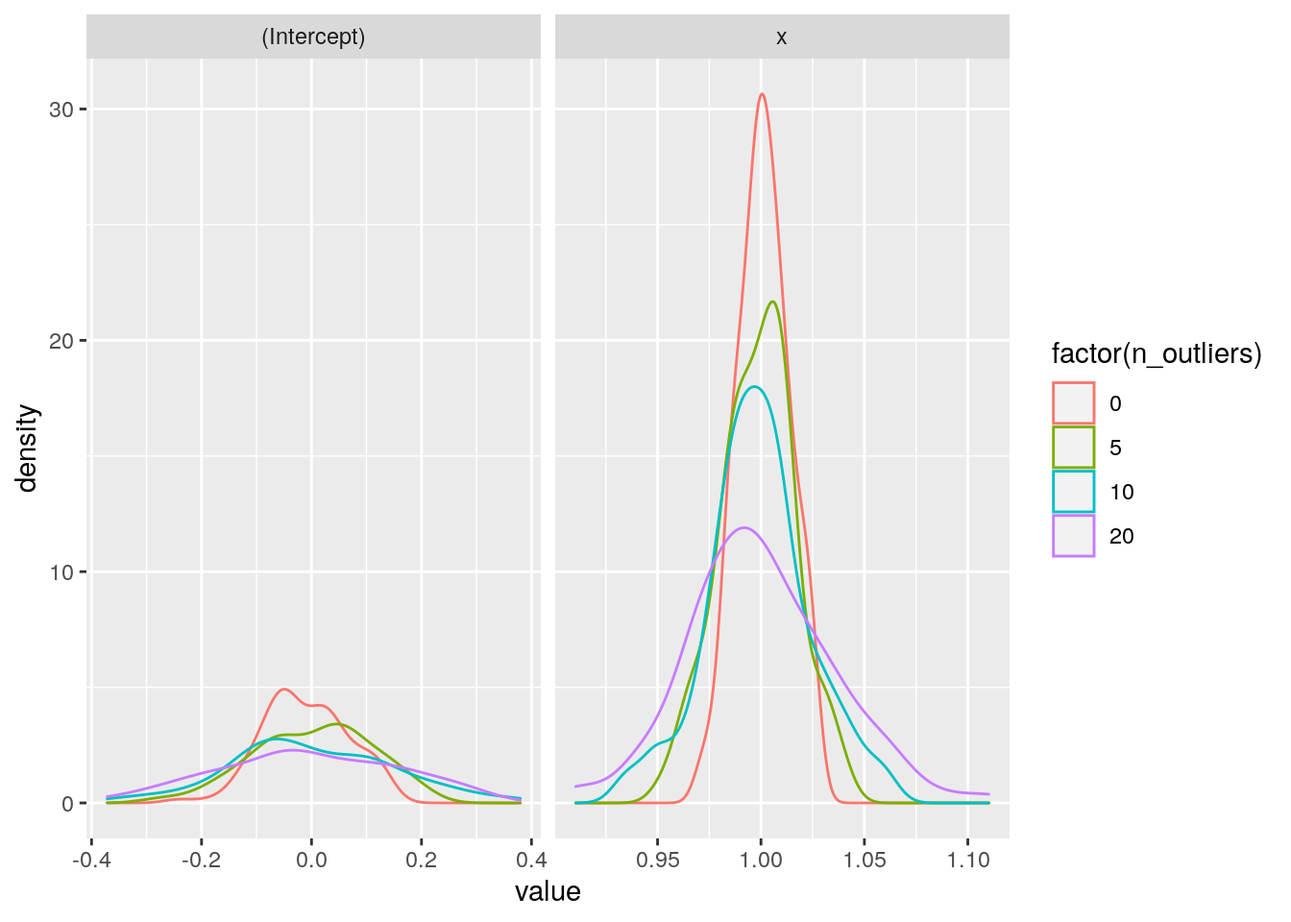
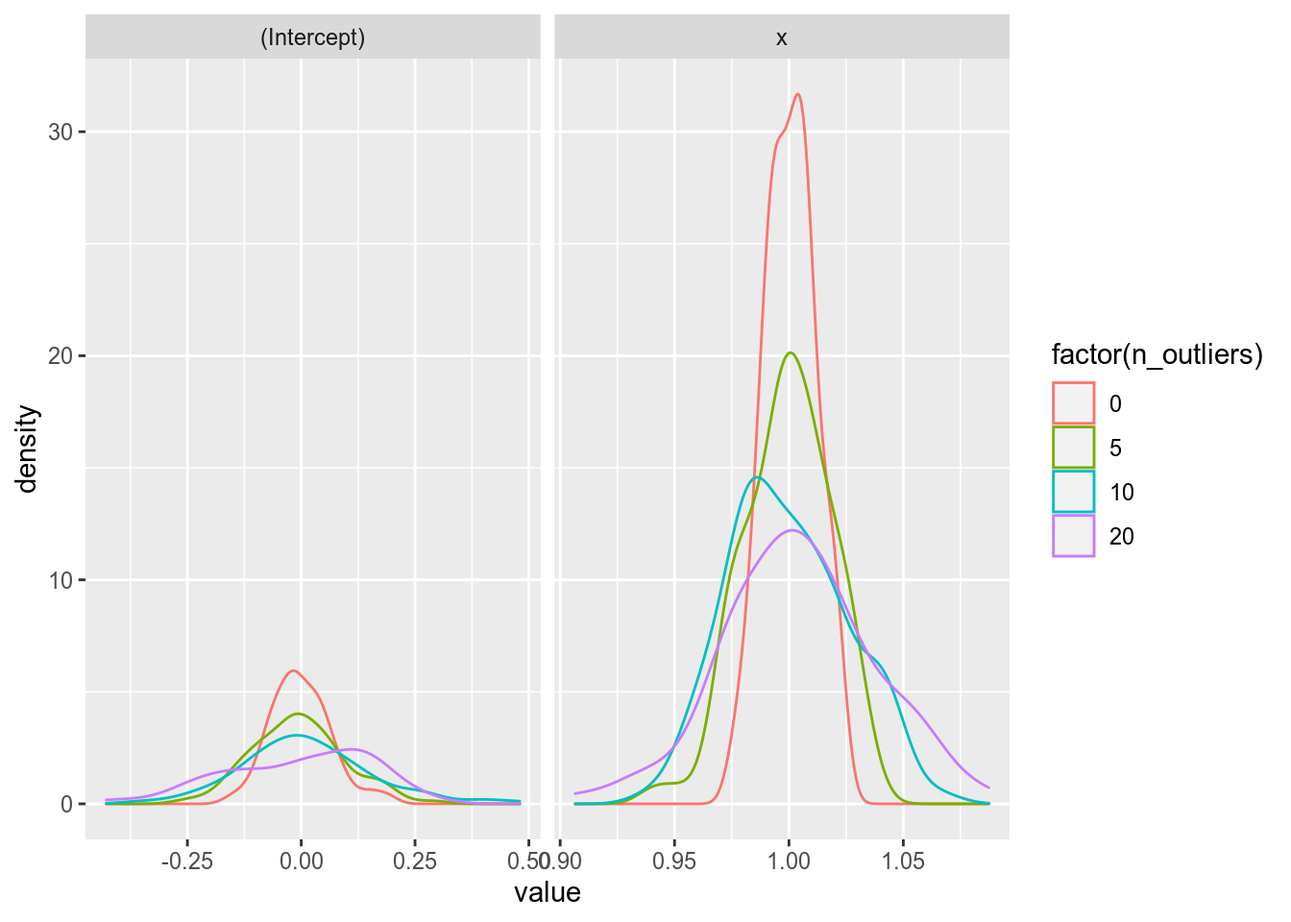
purrr addins

diff --git a/docs/lists-nested-lists-and-functional-programming.html b/docs/lists-nested-lists-and-functional-programming.html
@@ -448,13 +448,22 @@ code span.wa { color: #60a0b0; font-weight: bold; font-style: italic; } /* Warni
 <li class="chapter" data-level="11.4" data-path="animated-and-interactive-graphics.html"><a href="animated-and-interactive-graphics.html#general-references"><i class="fa fa-check"></i><b>11.4</b> General References</a>
 <ul>
 <li class="chapter" data-level="11.4.1" data-path="animated-and-interactive-graphics.html"><a href="animated-and-interactive-graphics.html#other-interactive-tools"><i class="fa fa-check"></i><b>11.4.1</b> Other interactive tools</a></li>
+<li class="chapter" data-level="11.4.2" data-path="debugging.html"><a href="debugging.html#debugging"><i class="fa fa-check"></i><b>11.4.2</b> Debugging</a></li>
 </ul></li>
 </ul></li>
 <li class="chapter" data-level="12" data-path="lists-nested-lists-and-functional-programming.html"><a href="lists-nested-lists-and-functional-programming.html"><i class="fa fa-check"></i><b>12</b> Lists, Nested Lists, and Functional Programming</a>
 <ul>
 <li class="chapter" data-level="12.1" data-path="lists-nested-lists-and-functional-programming.html"><a href="lists-nested-lists-and-functional-programming.html#review-lists-and-vectors"><i class="fa fa-check"></i><b>12.1</b> Review: Lists and Vectors</a></li>
 <li class="chapter" data-level="12.2" data-path="lists-nested-lists-and-functional-programming.html"><a href="lists-nested-lists-and-functional-programming.html#introduction-to-map"><i class="fa fa-check"></i><b>12.2</b> Introduction to <code>map</code></a></li>
-<li class="chapter" data-level="12.3" data-path="lists-nested-lists-and-functional-programming.html"><a href="lists-nested-lists-and-functional-programming.html#creating-list-columns"><i class="fa fa-check"></i><b>12.3</b> Creating List-columns</a></li>
+<li class="chapter" data-level="12.3" data-path="lists-nested-lists-and-functional-programming.html"><a href="lists-nested-lists-and-functional-programming.html#creating-and-using-list-columns"><i class="fa fa-check"></i><b>12.3</b> Creating (and Using) List-columns</a></li>
+<li class="chapter" data-level="12.4" data-path="lists-nested-lists-and-functional-programming.html"><a href="lists-nested-lists-and-functional-programming.html#ways-to-use-map"><i class="fa fa-check"></i><b>12.4</b> Ways to use <code>map</code></a>
+<ul>
+<li class="chapter" data-level="" data-path="intro-prog.html"><a href="intro-prog.html#try-it-out"><i class="fa fa-check"></i>Try it out</a></li>
+</ul></li>
+<li class="chapter" data-level="12.5" data-path="lists-nested-lists-and-functional-programming.html"><a href="lists-nested-lists-and-functional-programming.html#beyond-map-functions-with-multiple-inputs"><i class="fa fa-check"></i><b>12.5</b> Beyond <code>map</code>: Functions with multiple inputs</a>
+<ul>
+<li class="chapter" data-level="" data-path="intro-prog.html"><a href="intro-prog.html#try-it-out-1"><i class="fa fa-check"></i>Try it out</a></li>
+</ul></li>
 <li class="chapter" data-level="" data-path="tools.html"><a href="tools.html#references"><i class="fa fa-check"></i>References</a></li>
 </ul></li>
 <li class="chapter" data-level="13" data-path="high-performance-computing.html"><a href="high-performance-computing.html"><i class="fa fa-check"></i><b>13</b> High Performance Computing</a>
@@ -572,8 +581,8 @@ code span.wa { color: #60a0b0; font-weight: bold; font-style: italic; } /* Warni
 </div>
 <p>Operations in R are <strong>vectorized</strong> - that is, by default, they operate on vectors. This is primarily a feature that applies to atomic vectors (and we don’t even think about it):</p>
 <div class="sourceCode" id="cb33"><pre class="sourceCode r"><code class="sourceCode r"><span id="cb33-1"><a href="lists-nested-lists-and-functional-programming.html#cb33-1"></a>(<span class="kw">rnorm</span>(<span class="dv">10</span>) <span class="op">+</span><span class="st"> </span><span class="kw">rnorm</span>(<span class="dv">10</span>, <span class="dt">mean =</span> <span class="dv">3</span>))</span></code></pre></div>
-<pre><code>##  [1] 2.5901192 5.6280698 3.8117427 2.9286354 0.7314445 1.8338168 3.1511402
-##  [8] 1.2429209 4.1388425 2.2162552</code></pre>
+<pre><code>##  [1] 2.962322 2.304403 3.469598 1.786258 2.787927 5.174108 3.377978 5.515752
+##  [9] 3.001097 0.844748</code></pre>
 <p>We didn’t have to use a for loop to add these two vectors with 10 entries each together. In python (and SAS, and other languages), this might instead look like:</p>
 <div class="sourceCode" id="cb35"><pre class="sourceCode r"><code class="sourceCode r"><span id="cb35-1"><a href="lists-nested-lists-and-functional-programming.html#cb35-1"></a>a &lt;-<span class="st"> </span><span class="kw">rnorm</span>(<span class="dv">10</span>)</span>
 <span id="cb35-2"><a href="lists-nested-lists-and-functional-programming.html#cb35-2"></a>b &lt;-<span class="st"> </span><span class="kw">rnorm</span>(<span class="dv">10</span>, <span class="dt">mean =</span> <span class="dv">3</span>)</span>
@@ -582,8 +591,8 @@ code span.wa { color: #60a0b0; font-weight: bold; font-style: italic; } /* Warni
 <span id="cb35-5"><a href="lists-nested-lists-and-functional-programming.html#cb35-5"></a>  result[i] &lt;-<span class="st"> </span>a[i] <span class="op">+</span><span class="st"> </span>b[i]</span>
 <span id="cb35-6"><a href="lists-nested-lists-and-functional-programming.html#cb35-6"></a>}</span>
 <span id="cb35-7"><a href="lists-nested-lists-and-functional-programming.html#cb35-7"></a>result</span></code></pre></div>
-<pre><code>##  [1] 2.670812 1.864085 3.418096 3.077160 1.961165 2.360801 2.158312 2.616665
-##  [9] 3.034091 2.552671</code></pre>
+<pre><code>##  [1] 1.852131 4.881300 3.238447 3.638142 2.866209 4.318061 3.268676 3.033669
+##  [9] 4.341455 5.716266</code></pre>
 <p>That is, we would apply or map the + function to each entry of a and b. For atomic vectors, it’s easy to do this by default; with a list, however, we need to be a bit more explicit (because everything that’s passed into the function may not be the same type).</p>
 <p>This logic is the basis behind the purrr package (and similar base functions <code>apply</code>, <code>lapply</code>, <code>sapply</code>, <code>tapply</code>, and <code>mapply</code> - I find the purrr package easier to work with, but you may use the base package versions if you want, and you can find a <a href="https://jennybc.github.io/purrr-tutorial/bk01_base-functions.html">side-by-side comparison in the purrr tutorial</a>).</p>
 </div>
@@ -1572,8 +1581,8 @@ code span.wa { color: #60a0b0; font-weight: bold; font-style: italic; } /* Warni
 ## 10 Davos Seaworth     Male   &quot;In 260 AC or before, at King&#39;s Landing&quot;
 ## # … with 20 more rows</code></pre>
 </div>
-<div id="creating-list-columns" class="section level2" number="12.3">
-<h2><span class="header-section-number">12.3</span> Creating List-columns</h2>
+<div id="creating-and-using-list-columns" class="section level2" number="12.3">
+<h2><span class="header-section-number">12.3</span> Creating (and Using) List-columns</h2>
 <p>Data structures in R are typically list-based in one way or another. Sometimes, more complicated data structures are actually lists of lists, or tibbles with a list-column, or other variations on “list within a ____”. In combination with <code>purrr</code>, this is an <em>incredibly</em> powerful setup that can make working with simulations and data very easy.</p>
 <p>Suppose, for instance, I want to simulate some data for modeling purposes, where I can control the number of outliers in the dataset:</p>
 <div class="sourceCode" id="cb64"><pre class="sourceCode r"><code class="sourceCode r"><span id="cb64-1"><a href="lists-nested-lists-and-functional-programming.html#cb64-1"></a>data_sim &lt;-<span class="st"> </span><span class="cf">function</span>(<span class="dt">n_outliers =</span> <span class="dv">0</span>) {</span>
@@ -1594,16 +1603,16 @@ code span.wa { color: #60a0b0; font-weight: bold; font-style: italic; } /* Warni
 <pre><code>## # A tibble: 201 x 3
 ##        x      y is_outlier
 ##    &lt;dbl&gt;  &lt;dbl&gt; &lt;lgl&gt;     
-##  1 -10    -8.88 FALSE     
-##  2  -9.9  -9.13 FALSE     
-##  3  -9.8  -9.64 FALSE     
-##  4  -9.7  -9.30 FALSE     
-##  5  -9.6 -10.5  FALSE     
-##  6  -9.5 -11.8  FALSE     
-##  7  -9.4 -10.5  FALSE     
-##  8  -9.3  -9.45 FALSE     
-##  9  -9.2  -9.07 FALSE     
-## 10  -9.1  -7.42 FALSE     
+##  1 -10   -10.4  FALSE     
+##  2  -9.9 -10.2  FALSE     
+##  3  -9.8  -8.68 FALSE     
+##  4  -9.7 -10.6  FALSE     
+##  5  -9.6  -8.82 FALSE     
+##  6  -9.5  -9.91 FALSE     
+##  7  -9.4  -9.34 FALSE     
+##  8  -9.3 -10.3  FALSE     
+##  9  -9.2  -6.78 FALSE     
+## 10  -9.1  -8.74 FALSE     
 ## # … with 191 more rows</code></pre>
 <p>Now, lets suppose that I want 100 replicates of each of 0, 5, 10, and 20 outliers.</p>
 <div class="sourceCode" id="cb66"><pre class="sourceCode r"><code class="sourceCode r"><span id="cb66-1"><a href="lists-nested-lists-and-functional-programming.html#cb66-1"></a>sim &lt;-<span class="st"> </span><span class="kw">crossing</span>(<span class="dt">rep =</span> <span class="dv">1</span><span class="op">:</span><span class="dv">100</span>, <span class="dt">n_outliers =</span> <span class="kw">c</span>(<span class="dv">0</span>, <span class="dv">5</span>, <span class="dv">10</span>, <span class="dv">20</span>)) <span class="op">%&gt;%</span></span>
@@ -1616,14 +1625,14 @@ code span.wa { color: #60a0b0; font-weight: bold; font-style: italic; } /* Warni
 <p>It can be helpful to examine one of the objects just to see what you’re dealing with:</p>
 <div class="sourceCode" id="cb68"><pre class="sourceCode r"><code class="sourceCode r"><span id="cb68-1"><a href="lists-nested-lists-and-functional-programming.html#cb68-1"></a><span class="kw">str</span>(sim<span class="op">$</span>reg[[<span class="dv">1</span>]])</span></code></pre></div>
 <pre><code>## List of 12
-##  $ coefficients : Named num [1:2] -0.241 1.015
+##  $ coefficients : Named num [1:2] 0.0316 1.0061
 ##   ..- attr(*, &quot;names&quot;)= chr [1:2] &quot;(Intercept)&quot; &quot;x&quot;
-##  $ residuals    : Named num [1:201] -0.2395 1.0206 -0.0367 0.318 -0.2776 ...
+##  $ residuals    : Named num [1:201] -0.336 -1.466 -0.573 1.278 -0.7 ...
 ##   ..- attr(*, &quot;names&quot;)= chr [1:201] &quot;1&quot; &quot;2&quot; &quot;3&quot; &quot;4&quot; ...
-##  $ effects      : Named num [1:201] 3.423 83.47 -0.124 0.231 -0.363 ...
+##  $ effects      : Named num [1:201] -0.449 82.767 -0.406 1.442 -0.537 ...
 ##   ..- attr(*, &quot;names&quot;)= chr [1:201] &quot;(Intercept)&quot; &quot;x&quot; &quot;&quot; &quot;&quot; ...
 ##  $ rank         : int 2
-##  $ fitted.values: Named num [1:201] -10.39 -10.29 -10.19 -10.08 -9.98 ...
+##  $ fitted.values: Named num [1:201] -10.03 -9.93 -9.83 -9.73 -9.63 ...
 ##   ..- attr(*, &quot;names&quot;)= chr [1:201] &quot;1&quot; &quot;2&quot; &quot;3&quot; &quot;4&quot; ...
 ##  $ assign       : int [1:2] 0 1
 ##  $ qr           :List of 5
@@ -1650,12 +1659,12 @@ code span.wa { color: #60a0b0; font-weight: bold; font-style: italic; } /* Warni
 ##   .. ..- attr(*, &quot;order&quot;)= int 1
 ##   .. ..- attr(*, &quot;intercept&quot;)= int 1
 ##   .. ..- attr(*, &quot;response&quot;)= int 1
-##   .. ..- attr(*, &quot;.Environment&quot;)=&lt;environment: 0x55ddc3dde378&gt; 
+##   .. ..- attr(*, &quot;.Environment&quot;)=&lt;environment: 0x55e4d1abd2d8&gt; 
 ##   .. ..- attr(*, &quot;predvars&quot;)= language list(y, x)
 ##   .. ..- attr(*, &quot;dataClasses&quot;)= Named chr [1:2] &quot;numeric&quot; &quot;numeric&quot;
 ##   .. .. ..- attr(*, &quot;names&quot;)= chr [1:2] &quot;y&quot; &quot;x&quot;
 ##  $ model        :&#39;data.frame&#39;:	201 obs. of  2 variables:
-##   ..$ y: num [1:201] -10.63 -9.27 -10.22 -9.77 -10.26 ...
+##   ..$ y: num [1:201] -10.37 -11.4 -10.4 -8.45 -10.33 ...
 ##   ..$ x: num [1:201] -10 -9.9 -9.8 -9.7 -9.6 -9.5 -9.4 -9.3 -9.2 -9.1 ...
 ##   ..- attr(*, &quot;terms&quot;)=Classes &#39;terms&#39;, &#39;formula&#39;  language y ~ x
 ##   .. .. ..- attr(*, &quot;variables&quot;)= language list(y, x)
@@ -1667,7 +1676,7 @@ code span.wa { color: #60a0b0; font-weight: bold; font-style: italic; } /* Warni
 ##   .. .. ..- attr(*, &quot;order&quot;)= int 1
 ##   .. .. ..- attr(*, &quot;intercept&quot;)= int 1
 ##   .. .. ..- attr(*, &quot;response&quot;)= int 1
-##   .. .. ..- attr(*, &quot;.Environment&quot;)=&lt;environment: 0x55ddc3dde378&gt; 
+##   .. .. ..- attr(*, &quot;.Environment&quot;)=&lt;environment: 0x55e4d1abd2d8&gt; 
 ##   .. .. ..- attr(*, &quot;predvars&quot;)= language list(y, x)
 ##   .. .. ..- attr(*, &quot;dataClasses&quot;)= Named chr [1:2] &quot;numeric&quot; &quot;numeric&quot;
 ##   .. .. .. ..- attr(*, &quot;names&quot;)= chr [1:2] &quot;y&quot; &quot;x&quot;
@@ -1677,7 +1686,7 @@ code span.wa { color: #60a0b0; font-weight: bold; font-style: italic; } /* Warni
 <pre><code>## # A tibble: 1 x 2
 ##   `(Intercept)`     x
 ##           &lt;dbl&gt; &lt;dbl&gt;
-## 1        -0.241  1.01</code></pre>
+## 1        0.0316  1.01</code></pre>
 <p>This will make our formatting a lot easier and prevent any duplication that might occur if we unnest a vector that has length &gt; 1.</p>
 <div class="sourceCode" id="cb72"><pre class="sourceCode r"><code class="sourceCode r"><span id="cb72-1"><a href="lists-nested-lists-and-functional-programming.html#cb72-1"></a>sim &lt;-<span class="st"> </span>sim <span class="op">%&gt;%</span></span>
 <span id="cb72-2"><a href="lists-nested-lists-and-functional-programming.html#cb72-2"></a><span class="st">  </span><span class="kw">mutate</span>(<span class="dt">coefs =</span> purrr<span class="op">::</span><span class="kw">map</span>(reg, <span class="st">&quot;coefficients&quot;</span>) <span class="op">%&gt;%</span></span>
@@ -1688,31 +1697,31 @@ code span.wa { color: #60a0b0; font-weight: bold; font-style: italic; } /* Warni
 ## # A tibble: 1 x 2
 ##   `(Intercept)`     x
 ##           &lt;dbl&gt; &lt;dbl&gt;
-## 1        -0.241  1.01
+## 1        0.0316  1.01
 ## 
 ## [[2]]
 ## # A tibble: 1 x 2
 ##   `(Intercept)`     x
 ##           &lt;dbl&gt; &lt;dbl&gt;
-## 1        -0.283  1.02
+## 1        -0.256  1.01
 ## 
 ## [[3]]
 ## # A tibble: 1 x 2
 ##   `(Intercept)`     x
 ##           &lt;dbl&gt; &lt;dbl&gt;
-## 1         0.232  1.00
+## 1      -0.00297 0.977
 ## 
 ## [[4]]
 ## # A tibble: 1 x 2
 ##   `(Intercept)`     x
 ##           &lt;dbl&gt; &lt;dbl&gt;
-## 1       -0.0635  1.03
+## 1        -0.119 0.959
 ## 
 ## [[5]]
 ## # A tibble: 1 x 2
 ##   `(Intercept)`     x
 ##           &lt;dbl&gt; &lt;dbl&gt;
-## 1       -0.0625  1.03</code></pre>
+## 1       -0.0471  1.02</code></pre>
 <p>Then, we can plot our results:</p>
 <div class="sourceCode" id="cb74"><pre class="sourceCode r"><code class="sourceCode r"><span id="cb74-1"><a href="lists-nested-lists-and-functional-programming.html#cb74-1"></a>sim <span class="op">%&gt;%</span></span>
 <span id="cb74-2"><a href="lists-nested-lists-and-functional-programming.html#cb74-2"></a><span class="st">  </span><span class="kw">unnest</span>(coefs) <span class="op">%&gt;%</span></span>
@@ -1723,7 +1732,120 @@ code span.wa { color: #60a0b0; font-weight: bold; font-style: italic; } /* Warni
 <p><img src="unl-stat850_files/figure-html/unnamed-chunk-23-1.png" width="672" /></p>
 <p>So as there are more and more outliers, the coefficient estimates get a wider distribution, but remain (relatively) centered on the “true” values of 0 and 1, respectively.</p>
 <p>Notice that we keep our data in list column form right up until it is time to actually unnest it - which means that we have at the ready the simulated data, the simulated model, and the conditions under which it was simulated, all in the same data structure. It’s a really nice, organized system.</p>
+</div>
+<div id="ways-to-use-map" class="section level2" number="12.4">
+<h2><span class="header-section-number">12.4</span> Ways to use <code>map</code></h2>
+<p>There are 3 main use cases for <code>map</code> (and its cousins <code>pmap</code>, <code>map2</code>, etc.):</p>
+<ol style="list-style-type: decimal">
+<li>Use with an existing function</li>
+<li>Use with an anonymous function, defined on the fly</li>
+<li>Use with a formula (which is just a concise way to define an anonymous function)</li>
+</ol>
+<p>I’ll use a trivial example to show the difference between these options:</p>
+<div class="sourceCode" id="cb75"><pre class="sourceCode r"><code class="sourceCode r"><span id="cb75-1"><a href="lists-nested-lists-and-functional-programming.html#cb75-1"></a><span class="co"># An existing function</span></span>
+<span id="cb75-2"><a href="lists-nested-lists-and-functional-programming.html#cb75-2"></a>res &lt;-<span class="st"> </span><span class="kw">tibble</span>(<span class="dt">x =</span> <span class="dv">1</span><span class="op">:</span><span class="dv">10</span>, <span class="dt">y1 =</span> <span class="kw">map_dbl</span>(x, log10))</span>
+<span id="cb75-3"><a href="lists-nested-lists-and-functional-programming.html#cb75-3"></a></span>
+<span id="cb75-4"><a href="lists-nested-lists-and-functional-programming.html#cb75-4"></a><span class="co"># An anonymous function</span></span>
+<span id="cb75-5"><a href="lists-nested-lists-and-functional-programming.html#cb75-5"></a>res &lt;-<span class="st"> </span>res <span class="op">%&gt;%</span><span class="st"> </span><span class="kw">mutate</span>(<span class="dt">y2 =</span> <span class="kw">map_dbl</span>(x, <span class="cf">function</span>(z) z<span class="op">^</span><span class="dv">2</span><span class="op">/</span><span class="dv">10</span>))</span>
+<span id="cb75-6"><a href="lists-nested-lists-and-functional-programming.html#cb75-6"></a></span>
+<span id="cb75-7"><a href="lists-nested-lists-and-functional-programming.html#cb75-7"></a><span class="co"># A formula equivalent to function(z) z^5/(z + 10)</span></span>
+<span id="cb75-8"><a href="lists-nested-lists-and-functional-programming.html#cb75-8"></a><span class="co"># the . is the variable you&#39;re manipulating</span></span>
+<span id="cb75-9"><a href="lists-nested-lists-and-functional-programming.html#cb75-9"></a>res &lt;-<span class="st"> </span>res <span class="op">%&gt;%</span><span class="st"> </span><span class="kw">mutate</span>(<span class="dt">y3 =</span> <span class="kw">map_dbl</span>(x, <span class="op">~</span>.<span class="op">^</span><span class="dv">5</span><span class="op">/</span>(.<span class="op">+</span><span class="dv">10</span>)))</span></code></pre></div>
+<p>It can be a bit tricky to differentiate between options 2 and 3 in practice - the biggest difference is that you’re not using the keyword <code>function</code> and your variable is the default placeholder variable <code>.</code> used in the tidyverse.</p>
+<div id="try-it-out" class="section level3 unnumbered tryitout" number="">
+<h3>Try it out</h3>
+<p>Use each of the 3 options for defining a method in purrr to pull out a single string of all of the books each character was in. To do this, you’ll need to collapse the list of books for each character into a single string, which you can do with the <code>paste</code> function and the <code>collapse</code> argument.</p>
+<div class="sourceCode" id="cb76"><pre class="sourceCode r"><code class="sourceCode r"><span id="cb76-1"><a href="lists-nested-lists-and-functional-programming.html#cb76-1"></a>letters[<span class="dv">1</span><span class="op">:</span><span class="dv">10</span>] <span class="op">%&gt;%</span><span class="st"> </span><span class="kw">paste</span>(<span class="dt">collapse =</span> <span class="st">&quot;|&quot;</span>)</span></code></pre></div>
+<pre><code>## [1] &quot;a|b|c|d|e|f|g|h|i|j&quot;</code></pre>
+<p>Start with this data frame of character names and book list-columns:</p>
+<div class="sourceCode" id="cb78"><pre class="sourceCode r"><code class="sourceCode r"><span id="cb78-1"><a href="lists-nested-lists-and-functional-programming.html#cb78-1"></a>got_df &lt;-<span class="st"> </span><span class="kw">tibble</span>(<span class="dt">name =</span> <span class="kw">map_chr</span>(got_chars, <span class="st">&quot;name&quot;</span>),</span>
+<span id="cb78-2"><a href="lists-nested-lists-and-functional-programming.html#cb78-2"></a>                 <span class="dt">id =</span> <span class="kw">map_int</span>(got_chars, <span class="st">&quot;id&quot;</span>),</span>
+<span id="cb78-3"><a href="lists-nested-lists-and-functional-programming.html#cb78-3"></a>                 <span class="dt">books =</span> <span class="kw">map</span>(got_chars, <span class="st">&quot;books&quot;</span>))</span></code></pre></div>
+<details>
+<p><summary>Solution</summary></p>
+<div class="sourceCode" id="cb79"><pre class="sourceCode r"><code class="sourceCode r"><span id="cb79-1"><a href="lists-nested-lists-and-functional-programming.html#cb79-1"></a><span class="co"># Define a function</span></span>
+<span id="cb79-2"><a href="lists-nested-lists-and-functional-programming.html#cb79-2"></a>my_collapse &lt;-<span class="st"> </span><span class="cf">function</span>(x) <span class="kw">paste</span>(x, <span class="dt">collapse =</span> <span class="st">&quot; | &quot;</span>)</span>
+<span id="cb79-3"><a href="lists-nested-lists-and-functional-programming.html#cb79-3"></a></span>
+<span id="cb79-4"><a href="lists-nested-lists-and-functional-programming.html#cb79-4"></a>got_df &lt;-<span class="st"> </span>got_df <span class="op">%&gt;%</span></span>
+<span id="cb79-5"><a href="lists-nested-lists-and-functional-programming.html#cb79-5"></a><span class="st">  </span><span class="kw">mutate</span>(</span>
+<span id="cb79-6"><a href="lists-nested-lists-and-functional-programming.html#cb79-6"></a>    <span class="dt">fun_def_res =</span> <span class="kw">map_chr</span>(books, my_collapse),</span>
+<span id="cb79-7"><a href="lists-nested-lists-and-functional-programming.html#cb79-7"></a>    <span class="co"># Here, I don&#39;t have to define a function, I just pass my additional </span></span>
+<span id="cb79-8"><a href="lists-nested-lists-and-functional-programming.html#cb79-8"></a>    <span class="co"># argument in after the fact...</span></span>
+<span id="cb79-9"><a href="lists-nested-lists-and-functional-programming.html#cb79-9"></a>    <span class="dt">fun_base_res =</span> <span class="kw">map_chr</span>(books, paste, <span class="dt">collapse =</span> <span class="st">&quot; | &quot;</span>),</span>
+<span id="cb79-10"><a href="lists-nested-lists-and-functional-programming.html#cb79-10"></a>    </span>
+<span id="cb79-11"><a href="lists-nested-lists-and-functional-programming.html#cb79-11"></a>    <span class="co"># Here, I can just define a new function without a name and apply it to </span></span>
+<span id="cb79-12"><a href="lists-nested-lists-and-functional-programming.html#cb79-12"></a>    <span class="co"># each entry</span></span>
+<span id="cb79-13"><a href="lists-nested-lists-and-functional-programming.html#cb79-13"></a>    <span class="dt">fun_anon_res =</span> <span class="kw">map_chr</span>(books, <span class="cf">function</span>(x) <span class="kw">paste</span>(x, <span class="dt">collapse =</span> <span class="st">&quot; | &quot;</span>)),</span>
+<span id="cb79-14"><a href="lists-nested-lists-and-functional-programming.html#cb79-14"></a>    </span>
+<span id="cb79-15"><a href="lists-nested-lists-and-functional-programming.html#cb79-15"></a>    <span class="co"># And here, I don&#39;t even bother to specifically say that I&#39;m defining a </span></span>
+<span id="cb79-16"><a href="lists-nested-lists-and-functional-programming.html#cb79-16"></a>    <span class="co"># function, I just apply a formula to each entry</span></span>
+<span id="cb79-17"><a href="lists-nested-lists-and-functional-programming.html#cb79-17"></a>    <span class="dt">fun_formula_res =</span> <span class="kw">map_chr</span>(books, <span class="op">~</span><span class="kw">paste</span>(., <span class="dt">collapse =</span> <span class="st">&quot; | &quot;</span>))</span>
+<span id="cb79-18"><a href="lists-nested-lists-and-functional-programming.html#cb79-18"></a>  ) </span>
+<span id="cb79-19"><a href="lists-nested-lists-and-functional-programming.html#cb79-19"></a></span>
+<span id="cb79-20"><a href="lists-nested-lists-and-functional-programming.html#cb79-20"></a><span class="kw">head</span>(got_df)</span></code></pre></div>
+<pre><code>## # A tibble: 6 x 7
+##   name      id books  fun_def_res   fun_base_res  fun_anon_res  fun_formula_res 
+##   &lt;chr&gt;  &lt;int&gt; &lt;list&gt; &lt;chr&gt;         &lt;chr&gt;         &lt;chr&gt;         &lt;chr&gt;           
+## 1 Theon…  1022 &lt;chr … A Game of Th… A Game of Th… A Game of Th… A Game of Thron…
+## 2 Tyrio…  1052 &lt;chr … A Feast for … A Feast for … A Feast for … A Feast for Cro…
+## 3 Victa…  1074 &lt;chr … A Game of Th… A Game of Th… A Game of Th… A Game of Thron…
+## 4 Will    1109 &lt;chr … A Clash of K… A Clash of K… A Clash of K… A Clash of Kings
+## 5 Areo …  1166 &lt;chr … A Game of Th… A Game of Th… A Game of Th… A Game of Thron…
+## 6 Chett   1267 &lt;chr … A Game of Th… A Game of Th… A Game of Th… A Game of Thron…</code></pre>
+</details>
 <!-- ## Other Purrr functions -->
+</div>
+</div>
+<div id="beyond-map-functions-with-multiple-inputs" class="section level2" number="12.5">
+<h2><span class="header-section-number">12.5</span> Beyond <code>map</code>: Functions with multiple inputs</h2>
+<p>Sometimes, you might need to map a function over two vectors/lists in parallel. <code>purrr</code> has you covered with the <code>map2</code> function. As with <code>map</code>, the syntax is <code>map2(thing1, thing2, function, other.args)</code>; the big difference is that <code>function</code> takes two arguments.</p>
+<p>Let’s create a simple times-table:</p>
+<div class="sourceCode" id="cb81"><pre class="sourceCode r"><code class="sourceCode r"><span id="cb81-1"><a href="lists-nested-lists-and-functional-programming.html#cb81-1"></a><span class="kw">crossing</span>(<span class="dt">x =</span> <span class="dv">1</span><span class="op">:</span><span class="dv">10</span>, <span class="dt">y =</span> <span class="dv">1</span><span class="op">:</span><span class="dv">10</span>) <span class="op">%&gt;%</span></span>
+<span id="cb81-2"><a href="lists-nested-lists-and-functional-programming.html#cb81-2"></a><span class="st">  </span><span class="kw">mutate</span>(<span class="dt">times =</span> <span class="kw">map2_int</span>(x, y, <span class="st">`</span><span class="dt">*</span><span class="st">`</span>)) <span class="op">%&gt;%</span></span>
+<span id="cb81-3"><a href="lists-nested-lists-and-functional-programming.html#cb81-3"></a><span class="st">  </span><span class="kw">pivot_wider</span>(<span class="dt">names_from =</span> y, <span class="dt">names_prefix =</span> <span class="st">&#39;y=&#39;</span>, <span class="dt">values_from =</span> times)</span></code></pre></div>
+<pre><code>## # A tibble: 10 x 11
+##        x `y=1` `y=2` `y=3` `y=4` `y=5` `y=6` `y=7` `y=8` `y=9` `y=10`
+##    &lt;int&gt; &lt;int&gt; &lt;int&gt; &lt;int&gt; &lt;int&gt; &lt;int&gt; &lt;int&gt; &lt;int&gt; &lt;int&gt; &lt;int&gt;  &lt;int&gt;
+##  1     1     1     2     3     4     5     6     7     8     9     10
+##  2     2     2     4     6     8    10    12    14    16    18     20
+##  3     3     3     6     9    12    15    18    21    24    27     30
+##  4     4     4     8    12    16    20    24    28    32    36     40
+##  5     5     5    10    15    20    25    30    35    40    45     50
+##  6     6     6    12    18    24    30    36    42    48    54     60
+##  7     7     7    14    21    28    35    42    49    56    63     70
+##  8     8     8    16    24    32    40    48    56    64    72     80
+##  9     9     9    18    27    36    45    54    63    72    81     90
+## 10    10    10    20    30    40    50    60    70    80    90    100</code></pre>
+<div class="sourceCode" id="cb83"><pre class="sourceCode r"><code class="sourceCode r"><span id="cb83-1"><a href="lists-nested-lists-and-functional-programming.html#cb83-1"></a><span class="co"># we could use `multiply_by` instead of `*` if we wanted to</span></span></code></pre></div>
+<p>If you are using formula notation to define functions with <code>map2</code>, you will need to refer to your two arguments as <code>.x</code> and <code>.y</code>. You can determine this from the Usage section when you run <code>map2</code>, which shows you <code>map2(.x, .y, .f, ...)</code> - that is, the first argument is .x, the second is .y, and the third is the function.</p>
+<div id="try-it-out-1" class="section level3 unnumbered tryitout" number="">
+<h3>Try it out</h3>
+<p>Use <code>map2</code> to determine if each Game of Thrones character has more titles than aliases. Start with this code:</p>
+<div class="sourceCode" id="cb84"><pre class="sourceCode r"><code class="sourceCode r"><span id="cb84-1"><a href="lists-nested-lists-and-functional-programming.html#cb84-1"></a>got_names &lt;-<span class="st"> </span><span class="kw">tibble</span>(<span class="dt">name =</span> purrr<span class="op">::</span><span class="kw">map_chr</span>(got_chars, <span class="st">&quot;name&quot;</span>),</span>
+<span id="cb84-2"><a href="lists-nested-lists-and-functional-programming.html#cb84-2"></a>                    <span class="dt">titles =</span> purrr<span class="op">::</span><span class="kw">map</span>(got_chars, <span class="st">&quot;titles&quot;</span>),</span>
+<span id="cb84-3"><a href="lists-nested-lists-and-functional-programming.html#cb84-3"></a>                    <span class="dt">aliases =</span> purrr<span class="op">::</span><span class="kw">map</span>(got_chars, <span class="st">&quot;aliases&quot;</span>))</span></code></pre></div>
+<details>
+<p><summary>Solution</summary></p>
+<div class="sourceCode" id="cb85"><pre class="sourceCode r"><code class="sourceCode r"><span id="cb85-1"><a href="lists-nested-lists-and-functional-programming.html#cb85-1"></a>got_names <span class="op">%&gt;%</span></span>
+<span id="cb85-2"><a href="lists-nested-lists-and-functional-programming.html#cb85-2"></a><span class="st">  </span><span class="kw">mutate</span>(<span class="dt">more_titles =</span> <span class="kw">map2_lgl</span>(titles, aliases, <span class="op">~</span><span class="kw">length</span>(.x) <span class="op">&gt;</span><span class="st"> </span><span class="kw">length</span>(.y)))</span></code></pre></div>
+<pre><code>## # A tibble: 30 x 4
+##    name               titles    aliases    more_titles
+##    &lt;chr&gt;              &lt;list&gt;    &lt;list&gt;     &lt;lgl&gt;      
+##  1 Theon Greyjoy      &lt;chr [3]&gt; &lt;chr [4]&gt;  FALSE      
+##  2 Tyrion Lannister   &lt;chr [2]&gt; &lt;chr [11]&gt; FALSE      
+##  3 Victarion Greyjoy  &lt;chr [2]&gt; &lt;chr [1]&gt;  TRUE       
+##  4 Will               &lt;chr [1]&gt; &lt;chr [1]&gt;  FALSE      
+##  5 Areo Hotah         &lt;chr [1]&gt; &lt;chr [1]&gt;  FALSE      
+##  6 Chett              &lt;chr [1]&gt; &lt;chr [1]&gt;  FALSE      
+##  7 Cressen            &lt;chr [1]&gt; &lt;chr [1]&gt;  FALSE      
+##  8 Arianne Martell    &lt;chr [1]&gt; &lt;chr [1]&gt;  FALSE      
+##  9 Daenerys Targaryen &lt;chr [5]&gt; &lt;chr [11]&gt; FALSE      
+## 10 Davos Seaworth     &lt;chr [4]&gt; &lt;chr [5]&gt;  FALSE      
+## # … with 20 more rows</code></pre>
+</details>
+<p>Like <code>map</code>, you can specify the type of the output response using <code>map2</code>. This makes it very easy to format the output appropriately for your application.</p>
+<p>You can use functions with many arguments with <code>map</code> by using the <code>pmap</code> variant; here, you pass in a list of functions, which are identified by position (<code>..1, ..2, ..3,</code> etc). Note the <code>..</code> - you are referencing the list first, and the index within the list argument 2nd.</p>
+</div>
 </div>
 <div id="references" class="section level2 unnumbered learn-more" number="">
 <h2>References</h2>
